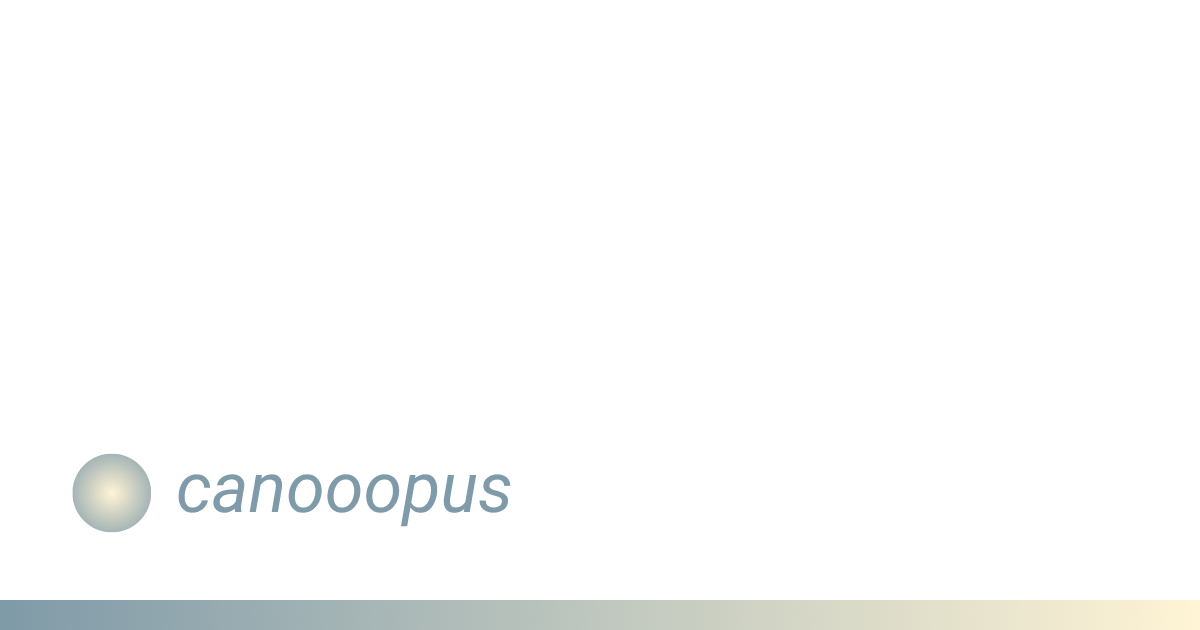
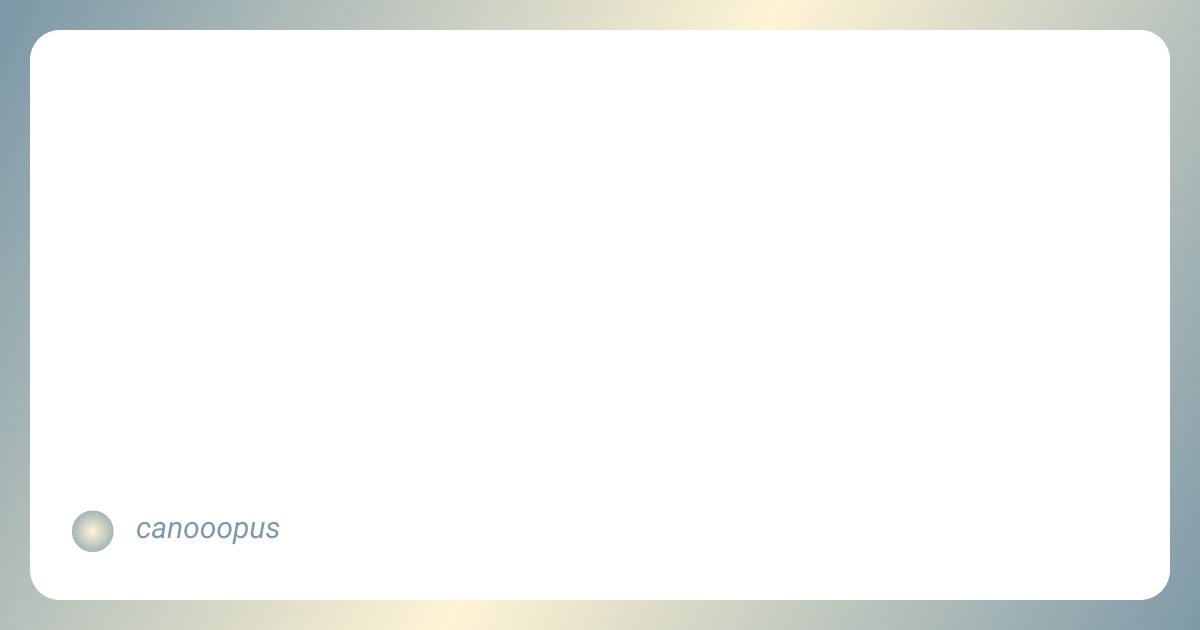
feat: update font style to normal for Roboto and adjust image positioning in Open Graph generation

Changed region(s): [[0.0, 0.0, 1.0, 1.0], [0.0617, 0.7238, 0.4317, 0.8746]]

diff --git a/app/blog/[slug]/opengraph-image.tsx b/app/blog/[slug]/opengraph-image.tsx
@@ -92,8 +92,8 @@ export default async function Image({
 
   const title = post?.title || "Blog Post";
 
-  // Roboto Medium Italic (weight: 400) のサブセットを取得
-  const robotoFont = await loadGoogleFont("Roboto", 400, true, title);
+  // Roboto (weight: 400, normal) のサブセットを取得
+  const robotoFont = await loadGoogleFont("Roboto", 400, false, title);
 
   // 日本語文字が含まれる場合は Noto Sans JP (weight: 400) も取得
   const hasJapanese = /[^\u0000-\u007F]/.test(title);
@@ -106,7 +106,7 @@ export default async function Image({
     fonts.push({
       name: "Roboto",
       data: robotoFont,
-      style: "italic",
+      style: "normal",
       weight: 400,
     });
   }
@@ -149,8 +149,8 @@ export default async function Image({
       <div
         style={{
           position: "absolute",
-          top: 70,
-          left: 72,
+          top: 50,
+          left: 65,
           width: 1056,
           height: 360,
           display: "flex",
@@ -174,10 +174,10 @@ export default async function Image({
               fonts.length > 0
                 ? "'Roboto', 'Noto Sans JP', sans-serif"
                 : "sans-serif",
-            fontStyle: "italic",
+            fontStyle: "normal",
             fontWeight: 400,
             color: "#000000",
-            lineHeight: 1.25, // フォント拡大に合わせて少しだけ詰めています
+            lineHeight: 1.25,
             letterSpacing: "-0.01em",
             wordBreak: "break-word",
           }}
